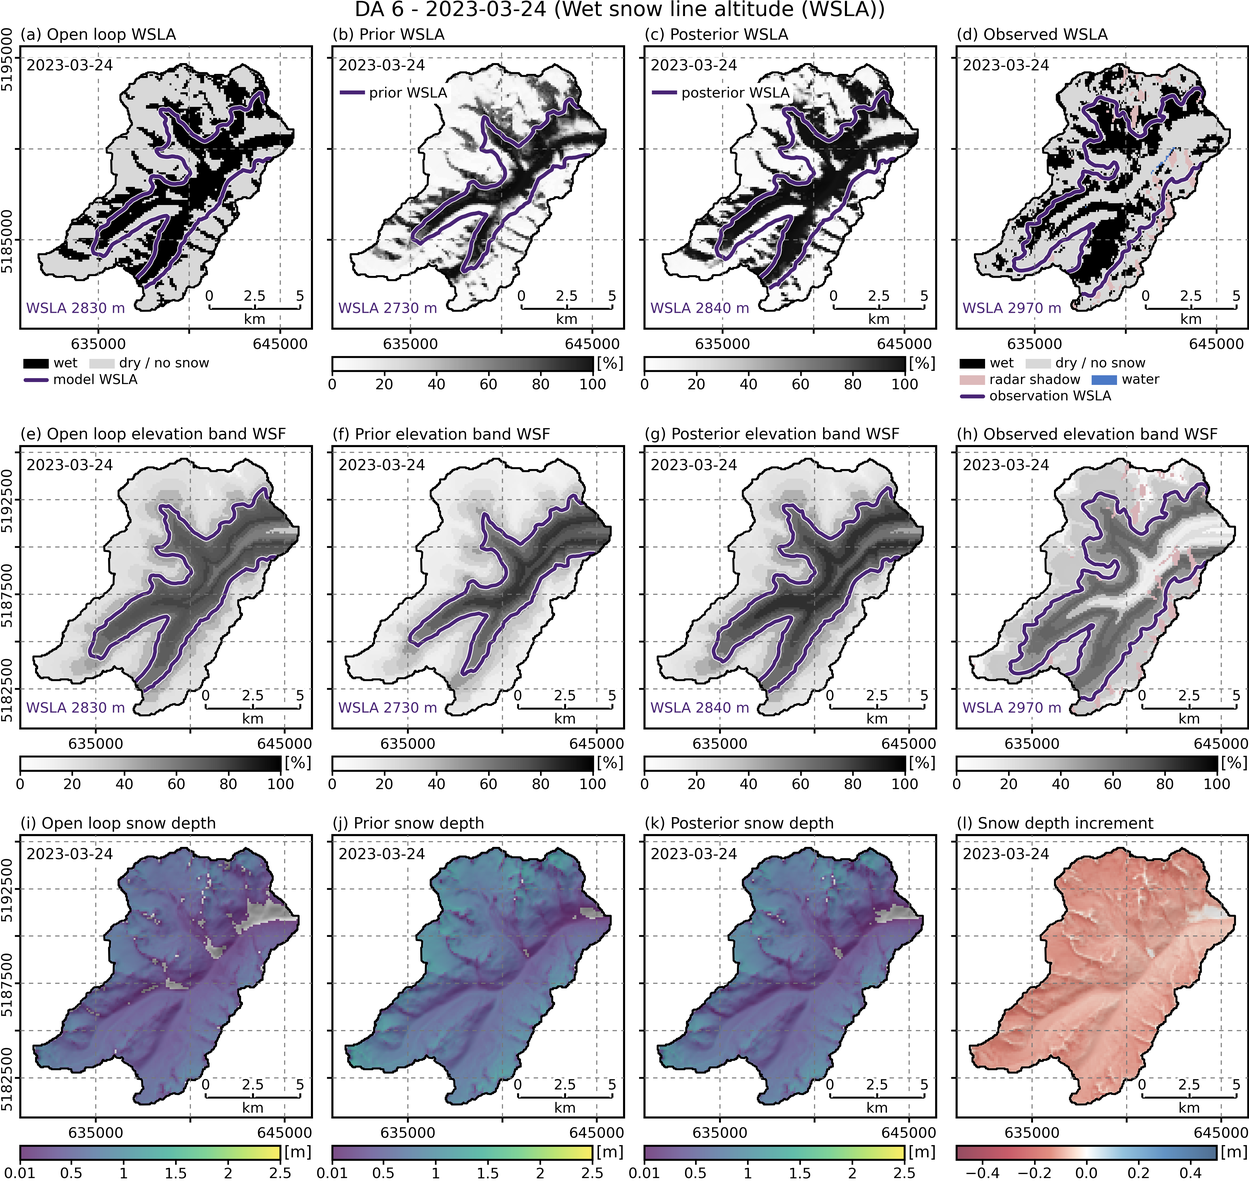
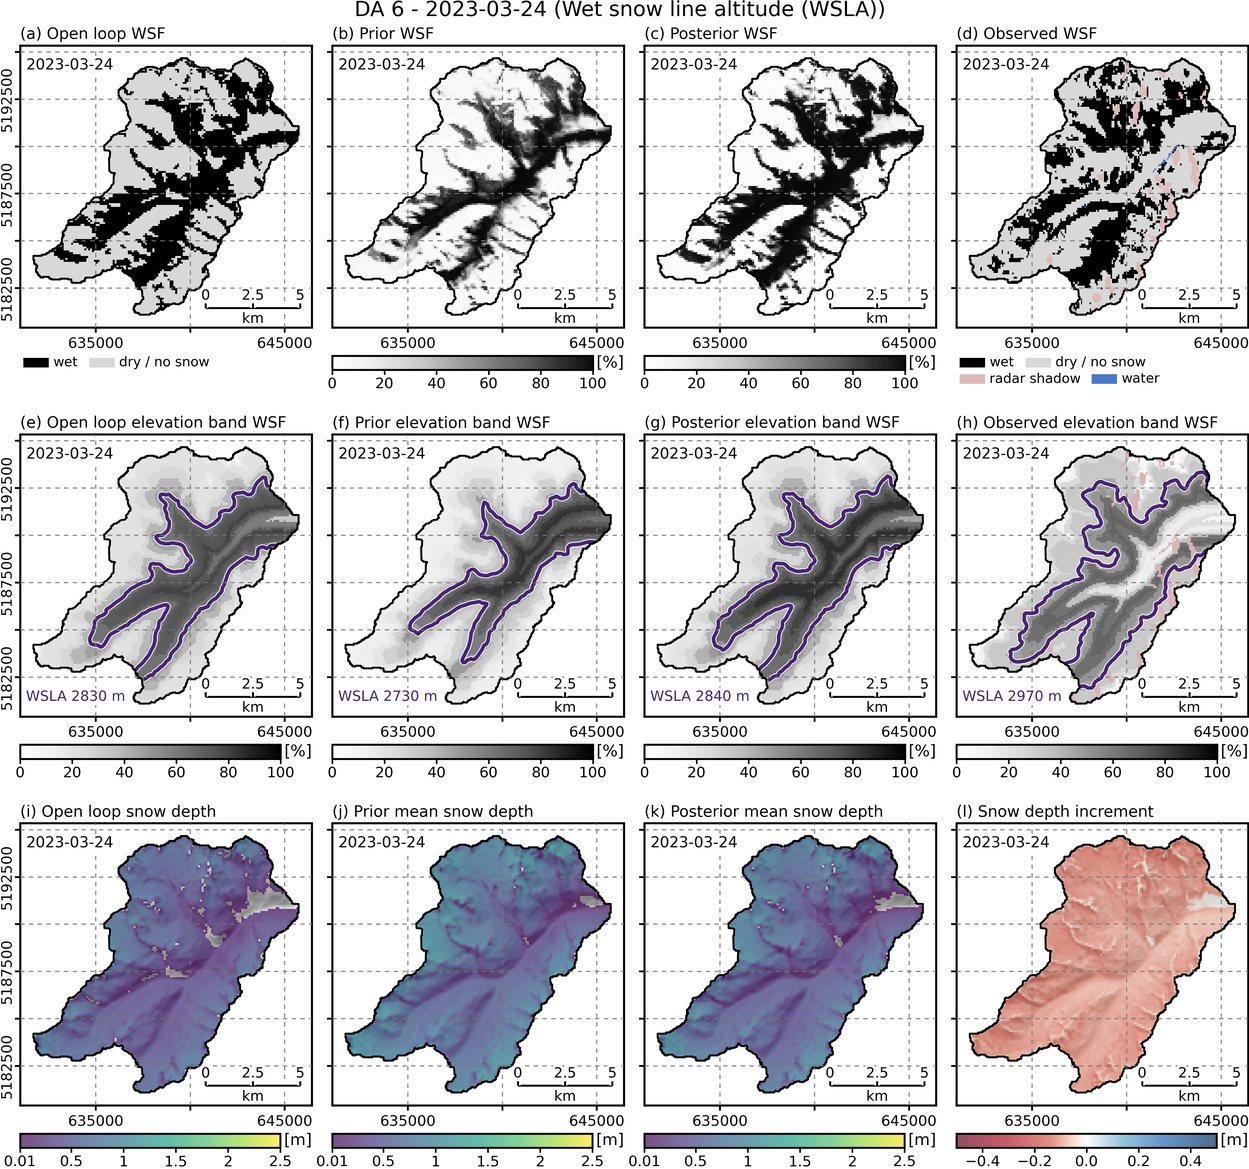
feat(viz): clarify generated WSLA map semantics

diff --git a/tests/unit/test_project_maps.py b/tests/unit/test_project_maps.py
@@ -1687,8 +1687,8 @@ def test_generated_da_map_recipes_build_stable_da_event_outputs(tmp_path: Path, 
     assert recipes[0].layout.ncols == 4
     assert [panel.title for panel in recipes[0].panels] == [
         "Open loop snow depth",
-        "Prior snow depth",
-        "Posterior snow depth",
+        "Prior mean snow depth",
+        "Posterior mean snow depth",
         "Snow depth increment",
     ]
     assert [panel.source for panel in recipes[0].panels] == [
@@ -1917,13 +1917,13 @@ def test_generated_da_map_recipes_use_probabilistic_scf_panels_when_fraction_sup
     ]
     assert [panel.title for panel in scf_panels[4:8]] == [
         "Open loop snow depth",
-        "Prior snow depth",
-        "Posterior snow depth",
+        "Prior mean snow depth",
+        "Posterior mean snow depth",
         "Snow depth increment",
     ]
 
 
-def test_generated_da_map_recipes_use_true_wsl_panels_for_wet_snow_line_events(
+def test_generated_da_map_recipes_keep_wsla_contours_out_of_primary_wsf_row(
     tmp_path: Path,
     monkeypatch: pytest.MonkeyPatch,
 ) -> None:
@@ -1952,10 +1952,10 @@ def test_generated_da_map_recipes_use_true_wsl_panels_for_wet_snow_line_events(
     assert recipes[0].layout.ncols == 4
     assert recipes[0].layout.nrows == 3
     assert [panel.kind for panel in recipes[0].panels[:4]] == [
-        "wet_snow_line",
-        "wet_snow_line",
-        "wet_snow_line",
-        "wet_snow_line",
+        "wet_snow",
+        "wet_snow",
+        "wet_snow",
+        "wet_snow",
     ]
     assert [panel.source for panel in recipes[0].panels[:4]] == [
         "open_loop",
@@ -1964,10 +1964,10 @@ def test_generated_da_map_recipes_use_true_wsl_panels_for_wet_snow_line_events(
         None,
     ]
     assert [panel.title for panel in recipes[0].panels[:4]] == [
-        "Open loop WSLA",
-        "Prior WSLA",
-        "Posterior WSLA",
-        "Observed WSLA",
+        "Open loop WSF",
+        "Prior WSF",
+        "Posterior WSF",
+        "Observed WSF",
     ]
     assert [panel.kind for panel in recipes[0].panels[4:8]] == [
         "wet_snow_elevation_fraction",
@@ -1996,8 +1996,8 @@ def test_generated_da_map_recipes_use_true_wsl_panels_for_wet_snow_line_events(
     assert [panel.kind for panel in recipes[0].panels[8:12]] == ["snow_depth", "snow_depth", "snow_depth", "snow_depth"]
     assert [panel.title for panel in recipes[0].panels[8:12]] == [
         "Open loop snow depth",
-        "Prior snow depth",
-        "Posterior snow depth",
+        "Prior mean snow depth",
+        "Posterior mean snow depth",
         "Snow depth increment",
     ]
 
@@ -2035,16 +2035,16 @@ def test_paper_recipe_keeps_full_wet_snow_line_da_maps(
     assert paper_recipe.row_labels == ()
     assert {panel.row for panel in paper_recipe.panels} == {0, 1, 2}
     assert [panel.kind for panel in paper_recipe.panels[:4]] == [
-        "wet_snow_line",
-        "wet_snow_line",
-        "wet_snow_line",
-        "wet_snow_line",
+        "wet_snow",
+        "wet_snow",
+        "wet_snow",
+        "wet_snow",
     ]
     assert [panel.title for panel in paper_recipe.panels[:4]] == [
-        "Open loop WSLA",
-        "Prior WSLA",
-        "Posterior WSLA",
-        "Observed WSLA",
+        "Open loop WSF",
+        "Prior WSF",
+        "Posterior WSF",
+        "Observed WSF",
     ]
     assert [panel.kind for panel in paper_recipe.panels[4:8]] == [
         "wet_snow_elevation_fraction",
@@ -2060,8 +2060,8 @@ def test_paper_recipe_keeps_full_wet_snow_line_da_maps(
     ]
     assert [panel.title for panel in paper_recipe.panels[8:]] == [
         "Open loop snow depth",
-        "Prior snow depth",
-        "Posterior snow depth",
+        "Prior mean snow depth",
+        "Posterior mean snow depth",
         "Snow depth increment",
     ]
     assert {panel.row for panel in paper_recipe.panels[:4]} == {0}
@@ -2096,7 +2096,7 @@ def test_generated_da_map_recipes_add_elevation_band_wsf_row_for_wet_snow_events
         "Open loop WSF",
         "Prior WSF",
         "Posterior WSF",
-        "Wet snow observation",
+        "Observed WSF",
     ]
     assert [panel.kind for panel in wet_recipe.panels[4:8]] == [
         "wet_snow_elevation_fraction",

diff --git a/openamundsen_da/methods/viz/maps/generated.py b/openamundsen_da/methods/viz/maps/generated.py
@@ -143,13 +143,20 @@ def _snow_depth_row(*, row: int, label: str, event_variable: str) -> GeneratedRo
         label=label,
         panels=(
             MapPanelSpec(kind="snow_depth", row=row, col=0, source="open_loop", title="Open loop snow depth", show_hillshade=True),
-            MapPanelSpec(kind="snow_depth", row=row, col=1, source="ensemble_mean", title="Prior snow depth", show_hillshade=True),
+            MapPanelSpec(
+                kind="snow_depth",
+                row=row,
+                col=1,
+                source="ensemble_mean",
+                title="Prior mean snow depth",
+                show_hillshade=True,
+            ),
             MapPanelSpec(
                 kind="snow_depth",
                 row=row,
                 col=2,
                 source="analysis_mean",
-                title="Posterior snow depth",
+                title="Posterior mean snow depth",
                 show_hillshade=True,
                 variable=event_variable,
             ),
@@ -223,43 +230,7 @@ def _fraction_row(*, row: int, kind: str, label: str) -> GeneratedRow:
                 show_hillshade=True,
                 hillshade_extent="roi",
             ),
-            MapPanelSpec(kind=kind, row=row, col=3, title="Wet snow observation"),
-        ),
-    )
-
-
-def _wet_snow_line_row(*, row: int, label: str) -> GeneratedRow:
-    return GeneratedRow(
-        label=label,
-        panels=(
-            MapPanelSpec(
-                kind="wet_snow_line",
-                row=row,
-                col=0,
-                source="open_loop",
-                title="Open loop WSLA",
-                show_hillshade=True,
-                hillshade_extent="roi",
-            ),
-            MapPanelSpec(
-                kind="wet_snow_line",
-                row=row,
-                col=1,
-                source="prior_probability",
-                title="Prior WSLA",
-                show_hillshade=True,
-                hillshade_extent="roi",
-            ),
-            MapPanelSpec(
-                kind="wet_snow_line",
-                row=row,
-                col=2,
-                source="posterior_probability",
-                title="Posterior WSLA",
-                show_hillshade=True,
-                hillshade_extent="roi",
-            ),
-            MapPanelSpec(kind="wet_snow_line", row=row, col=3, title="Observed WSLA"),
+            MapPanelSpec(kind=kind, row=row, col=3, title="Observed WSF"),
         ),
     )
 
@@ -319,7 +290,7 @@ def _generated_rows_for_event(project_dir: Path, event: AssimilationEvent) -> tu
         rows.append(_snow_depth_row(row=row_index, label=hs_label, event_variable=event.variable))
         row_index += 1
     elif event.variable == "wet_snow_line" and _fraction_model_support_available(project_dir, "wet_snow"):
-        rows.append(_wet_snow_line_row(row=row_index, label=_stream_row_label("wet_snow_line")))
+        rows.append(_fraction_row(row=row_index, kind="wet_snow", label=_stream_row_label("wet_snow_line")))
         row_index += 1
         rows.append(_wet_snow_elevation_fraction_row(row=row_index, variable="wet_snow_line"))
         row_index += 1

diff --git a/tests/unit/test_poster_profile.py b/tests/unit/test_poster_profile.py
@@ -609,8 +609,8 @@ def test_poster_da_event_drops_open_loop_column_and_keeps_response_panels() -> N
         layout=LayoutSpec(nrows=1, ncols=4),
         panels=(
             _panel("snow_depth", 0, 0, source="open_loop", title="Open-loop snow depth"),
-            _panel("snow_depth", 0, 1, source="ensemble_mean", title="Prior snow depth"),
-            _panel("snow_depth", 0, 2, source="analysis_mean", title="Posterior snow depth"),
+            _panel("snow_depth", 0, 1, source="ensemble_mean", title="Prior mean snow depth"),
+            _panel("snow_depth", 0, 2, source="analysis_mean", title="Posterior mean snow depth"),
             _panel("snow_depth", 0, 3, source="analysis_increment", title="Snow-depth increment"),
         ),
     )

diff --git a/README.md b/README.md
@@ -561,10 +561,10 @@ Note: running the project pipeline (see below) also generates these plots automa
   One-column project maps (`layout.ncols: 1`) render with a compact map-panel width rather than stretching the panel to the full paper width. One-column raster maps use this compact width with a small built-in enlargement so simple 1x1
   or 2x1 context rasters remain readable while staying visually consistent with larger map combinations.
 
-  Generated DA-event rows use four consistent columns: `open loop`, `prior`, `posterior`, and `reference`. Snow-state reference columns show `analysis_increment` (`posterior - prior`, so positive values mean DA added snow/water). FSC and wet-snow reference columns show the satellite observation. Generated FSC, WSF, WSLA, and elevation-band WSF rows use spatial prior/posterior probability maps where applicable; WSLA contours are panel-local, so model columns do not overlay observation WSLA. Generated WSLA maps keep the primary WSF/WSLA row, the elevation-band WSF row and the snow-depth response row in both standard and paper outputs. Top-level sub-domain SCF events use a taller same-file layout with a 2x2 snow-cover block above the 2x2 snow-depth response block; exact rerendering requires retained per-sub-domain grids. If the event resampling manifest reports skipped resampling, the map title is suffixed with `resampling skipped`.
+  Generated DA-event rows use four consistent columns: `open loop`, `prior`, `posterior`, and `reference`. Snow-state reference columns show `analysis_increment` (`posterior - prior`, so positive values mean DA added snow/water). FSC and wet-snow reference columns show the satellite observation. Generated FSC, WSF, WSLA, and elevation-band WSF rows use spatial prior/posterior probability maps where applicable. Generated WSLA maps keep a primary WSF row without WSLA contours, an elevation-band WSF row with the derived WSLA contours and a snow-depth response row in both standard and paper outputs. Top-level sub-domain SCF events use a taller same-file layout with a 2x2 snow-cover block above the 2x2 snow-depth response block; exact rerendering requires retained per-sub-domain grids. If the event resampling manifest reports skipped resampling, the map title is suffixed with `resampling skipped`.
 
   By default the renderer parallelizes across independent recipe PNGs inside the Docker container and clamps the effective worker count to `min(visible CPUs, selected recipes)`; use `--max-workers 1` to force sequential rendering. `oa-da-project` and merged sub-domain runs also render project maps automatically as a best-effort post-run stage. If a map fails because supporting data are missing, the pipeline logs a rerun command and continues.
-  Project maps now use a simplified public panel catalog: context panels (`overview`, `roi`, `hillshade`, `dem`, `aspect`, `svf`, `srf`, `landcover`), result panels (`snow_depth`, `swe`, `liquid_water_content`, `fsc`, `wet_snow`, `uncertainty`, `wet_snow_line`, `wet_snow_elevation_fraction`), and optional support panels (`legend`, `colorbar`). Static context rasters are masked to the ROI; `aspect` is derived from the DEM at render time and shown on a continuous radian colorbar, continuous static panels such as `srf` can use `show_hillshade: true` for a terrain underlay, and SRF and increment maps share a compact-neutral signed red-blue diverging palette. `landcover` panels can set `landcover_grouping: broad` to merge detailed vegetation/forest classes into broad manuscript-friendly classes, and their legend only lists classes present inside the ROI. The `rofental_manuscript` grouping is a Rofental paper/tutorial grouping, not a generic land-cover classification; it merges codes 1 and 13 as `rock`, 2 and 3 as `ice`, 4--7 as `grass/shrub`, and 8--12 as `forest`. Non-legend panels can use `legend_items` with `placement: below` or `placement: inside` (`anchor: top_left|top_right|bottom_left|bottom_right`) for compact layer legends such as station symbols; legacy `below_items` remains supported. `uncertainty` renders `*_uncertainty.tif` companion rasters for `observation: scf` or `observation: wet_snow` on the valid observation support. In prepared sub-domain projects, top-level project maps automatically overlay the configured sub-domain polygons from `subdomain_manifest.json` on ROI-bearing map panels and overview panels. Generated DA-event maps additionally mark sub-domain polygons as `no DA` only when that event was dropped for the sub-domain and recorded in `results/subdomain_dropped_events.csv`; healthy events with computed weights are not marked just because resampling was skipped. Recipe-level `row_views` can assign a shared Google/Slippy-map zoom extent to every panel in a row. `wet_snow` renders WSF, while `wet_snow_line` renders the wet-snow raster context together with a DEM contour at the diagnosed WSLA. `prior_probability` and `posterior_probability` sources render spatial ensemble probability fields; observation overlays are kept in observation/reference panels.
+  Project maps now use a simplified public panel catalog: context panels (`overview`, `roi`, `hillshade`, `dem`, `aspect`, `svf`, `srf`, `landcover`), result panels (`snow_depth`, `swe`, `liquid_water_content`, `fsc`, `wet_snow`, `uncertainty`, `wet_snow_line`, `wet_snow_elevation_fraction`), and optional support panels (`legend`, `colorbar`). Static context rasters are masked to the ROI; `aspect` is derived from the DEM at render time and shown on a continuous radian colorbar, continuous static panels such as `srf` can use `show_hillshade: true` for a terrain underlay, and SRF and increment maps share a compact-neutral signed red-blue diverging palette. `landcover` panels can set `landcover_grouping: broad` to merge detailed vegetation/forest classes into broad manuscript-friendly classes, and their legend only lists classes present inside the ROI. The `rofental_manuscript` grouping is a Rofental paper/tutorial grouping, not a generic land-cover classification; it merges codes 1 and 13 as `rock`, 2 and 3 as `ice`, 4--7 as `grass/shrub`, and 8--12 as `forest`. Non-legend panels can use `legend_items` with `placement: below` or `placement: inside` (`anchor: top_left|top_right|bottom_left|bottom_right`) for compact layer legends such as station symbols; legacy `below_items` remains supported. `uncertainty` renders `*_uncertainty.tif` companion rasters for `observation: scf` or `observation: wet_snow` on the valid observation support. In prepared sub-domain projects, top-level project maps automatically overlay the configured sub-domain polygons from `subdomain_manifest.json` on ROI-bearing map panels and overview panels. Generated DA-event maps additionally mark sub-domain polygons as `no DA` only when that event was dropped for the sub-domain and recorded in `results/subdomain_dropped_events.csv`; healthy events with computed weights are not marked just because resampling was skipped. Recipe-level `row_views` can assign a shared Google/Slippy-map zoom extent to every panel in a row. `wet_snow` renders WSF, while `wet_snow_line` renders the wet-snow raster context and derives WSLA contours in the elevation-band WSF row. `prior_probability` and `posterior_probability` sources render spatial ensemble probability fields; observation overlays are kept in observation/reference panels.
 
 - Project plots (all post-run plots without rerunning DA):
 

diff --git a/docs/guides/cli.md b/docs/guides/cli.md
@@ -599,7 +599,7 @@ Typical custom `maps.yml` files still use this panel catalog:
 #     # viewport_px: [1024, 1024]
 ```
 
-Generated DA-event maps use four columns: `open loop`, `prior`, `posterior`, and `reference`. Snow-state reference panels show `analysis_increment` (`posterior - prior`); FSC and wet-snow reference panels show the satellite observation. WSLA lines are panel-local and observation WSLA is drawn only in the observation/reference panel. Top-level sub-domain SCF events use a taller same-file layout with a 2x2 snow-cover block above the 2x2 snow-depth response block; exact rerendering requires retained per-sub-domain grids. If an event's resampling manifest has `skipped: true`, the generated map title includes `resampling skipped`.
+Generated DA-event maps use four columns: `open loop`, `prior`, `posterior`, and `reference`. Snow-state reference panels show `analysis_increment` (`posterior - prior`); FSC and wet-snow reference panels show the satellite observation. Generated WSLA maps show spatial WSF without WSLA contours in the first row and derived WSLA contours only in the elevation-band WSF row. Top-level sub-domain SCF events use a taller same-file layout with a 2x2 snow-cover block above the 2x2 snow-depth response block; exact rerendering requires retained per-sub-domain grids. If an event's resampling manifest has `skipped: true`, the generated map title includes `resampling skipped`.
 
 ```bash
 oa-da-plot-project-maps \
@@ -613,7 +613,7 @@ oa-da-plot-project-maps \
 - generated DA-event maps under `results/maps/da_events/*.png`
 - custom YAML maps under `results/maps/*.png`
 
-Generated `wet_snow` and `wet_snow_line` DA-event maps include a generated-only spatial elevation-band WSF row below the primary wet-snow row. Each panel keeps the map footprint, but every valid cell is colored by the raw wet snow fraction of its elevation band on a fixed white-to-black `0-100%` scale for open loop, posterior, and observation columns. Generated WSLA maps keep the primary WSF/WSLA row, the elevation-band WSF row and the snow-depth response row in both standard and paper outputs.
+Generated `wet_snow` and `wet_snow_line` DA-event maps include a generated-only spatial elevation-band WSF row below the primary wet-snow row. Each panel keeps the map footprint, but every valid cell is colored by the raw wet snow fraction of its elevation band on a fixed white-to-black `0-100%` scale for open loop, posterior, and observation columns. Generated WSLA maps keep the primary WSF row, the elevation-band WSF row with derived WSLA contours and the snow-depth response row in both standard and paper outputs.
 
 Static context panels (`hillshade`, `dem`, `aspect`, `svf`, `srf`, `landcover`) mask raster cells outside the ROI. `aspect` is derived from the DEM at render time and shown on a continuous radian colorbar. Continuous static panels such as `srf` can set `show_hillshade: true` to draw a terrain underlay. `landcover` panels can set `landcover_grouping: broad` to merge detailed vegetation/forest classes into broad manuscript-friendly classes, and the legend only lists classes present inside the ROI. The `rofental_manuscript` grouping is reserved for the Rofental paper/tutorial setup map, not for generic land-cover maps; it merges codes 1 and 13 as `rock`, 2 and 3 as `ice`, 4--7 as `grass/shrub`, and 8--12 as `forest`. Non-legend panels can use `legend_items` with `placement: below` or `placement: inside` (`anchor: top_left|top_right|bottom_left|bottom_right`) for compact layer legends such as station symbols; legacy `below_items` remains supported. Model and observation panels remain ROI-masked. Prepared sub-domain projects automatically draw the configured sub-domain polygons from `subdomain_manifest.json` on top-level ROI-bearing map panels and overview panels. Generated DA-event maps mark a sub-domain as `no DA` only when the event was dropped locally and recorded in `results/subdomain_dropped_events.csv`; events with valid weights are not marked just because posterior resampling was skipped. When `show_hillshade: true`, `hillshade_extent: roi` limits the hillshade to the ROI mask and `hillshade_extent: full` draws it across the full panel. In the supported Docker workflow, omitted `--max-workers` uses automatic recipe-level multicore rendering with the effective worker count clamped to `min(visible CPUs, selected recipes)`; pass `--max-workers 1` to keep rendering sequential. If one or more maps fail because supporting data are missing, the pipeline logs a rerun command and continues. After changing shipped or local static grids, rerender the full local project-map catalog so mixed gallery outputs do not keep stale static panels.
 

diff --git a/examples/README.md b/examples/README.md
@@ -49,7 +49,7 @@ examples/subdomains/
 ### `projects/`
 - Project runtime configuration/output roots.
 - `project_*/project_*.yml`: project-level data assimilation configuration and time span.
-- `project_*/maps.yml`: optional custom YAML map recipes for grid-composed project figures such as `setup_overview`. Generated DA-event maps are derived from the project assimilation-event config and written under `results/maps/da_events/`, while custom YAML maps stay at the root of `results/maps/`. Generated DA-event rows use four columns: `open loop`, `prior`, `posterior`, and `reference`. Snow-state reference columns show `posterior - prior` DA increments, while FSC and wet-snow reference columns show the satellite observation. Top-level sub-domain SCF events use a taller same-file layout with snow-cover panels above the snow-depth response. Generated `wet_snow` and `wet_snow_line` DA-event maps include a spatial elevation-band WSF row and draw WSLA contours panel-locally, with observation WSLA only in the observation/reference panel.
+- `project_*/maps.yml`: optional custom YAML map recipes for grid-composed project figures such as `setup_overview`. Generated DA-event maps are derived from the project assimilation-event config and written under `results/maps/da_events/`, while custom YAML maps stay at the root of `results/maps/`. Generated DA-event rows use four columns: `open loop`, `prior`, `posterior`, and `reference`. Snow-state reference columns show `posterior - prior` DA increments, while FSC and wet-snow reference columns show the satellite observation. Top-level sub-domain SCF events use a taller same-file layout with snow-cover panels above the snow-depth response. Generated `wet_snow_line` DA-event maps show spatial WSF without WSLA contours in the first row and derived WSLA contours only in the elevation-band WSF row.
 - `sigma_rh` is interpreted as a dew-point-temperature perturbation scale in K for both shipped projects.
 - The shipped `rofental` project uses the promoted `project_2022_2023` baseline: seed `113`, five station snow-depth events, one spring `wet_snow_line` event on `2023-03-24`, and two fSCA (`scf`) events on `2023-04-26` and `2023-05-26`. It keeps `wet_snow_fraction` as a diagnostic benchmark in the wet-snow summary outputs.
 - The shipped `rofental` project also enables the benchmark stage and adds `station_swe` as an extra benchmark family, so completed runs write `results/benchmark/` plus the headline DA-skill plot `results/plots/assim/scores/performance_scores.png` in addition to the usual DA outputs. Because `station_hs` is assimilated in that project, the resulting `station_swe` benchmark rows appear as `semi_independent` in the benchmark outputs. Station benchmark rows also expose sigma-aware `zSkill`, and the headline plot grows a third panel when those scores are available.

diff --git a/docs/Tutorial/07-results-and-diagnostics.md b/docs/Tutorial/07-results-and-diagnostics.md
@@ -464,11 +464,11 @@ Dimension names in the inspected NetCDF (for example `time1`, `time2`, `snow_lay
 > - `results/maps/da_events/da_6.png`: WSLA update on **2023-03-24**
 > - `results/maps/da_events/da_8.png`: fSCA (`scf`) update on **2023-05-26**
 
-![Generated DA-event map for the WSLA update on 2023-03-24]({{ site.baseurl }}/assets/images/tutorial/rofental_2022_2023_es30/da_06_wsla_2023_03_24.png?v=20260703)
+![Generated DA-event map for the WSLA update on 2023-03-24]({{ site.baseurl }}/assets/images/tutorial/rofental_2022_2023_es30/da_06_wsla_2023_03_24.png?v=20260714)
 
-_`da_6.png`: open loop, prior, posterior and observed wet snow fraction maps with WSLA contours, elevation-band wet snow fraction maps, and corresponding snow-depth fields for the **2023-03-24** `wet_snow_line` update._
+_`da_6.png`: open loop, prior, posterior and observed wet snow fraction maps, elevation-band wet snow fraction maps with derived WSLA contours, and corresponding snow-depth fields for the **2023-03-24** `wet_snow_line` update._
 
-![Generated DA-event map for the fSCA update on 2023-05-26]({{ site.baseurl }}/assets/images/tutorial/rofental_2022_2023_es30/da_08_scf_2023_05_26.png?v=20260703)
+![Generated DA-event map for the fSCA update on 2023-05-26]({{ site.baseurl }}/assets/images/tutorial/rofental_2022_2023_es30/da_08_scf_2023_05_26.png?v=20260714)
 
 _`da_8.png`: open loop, prior, posterior and observed fSCA diagnostics plus corresponding snow-depth fields for the **2023-05-26** `scf` update._
 
